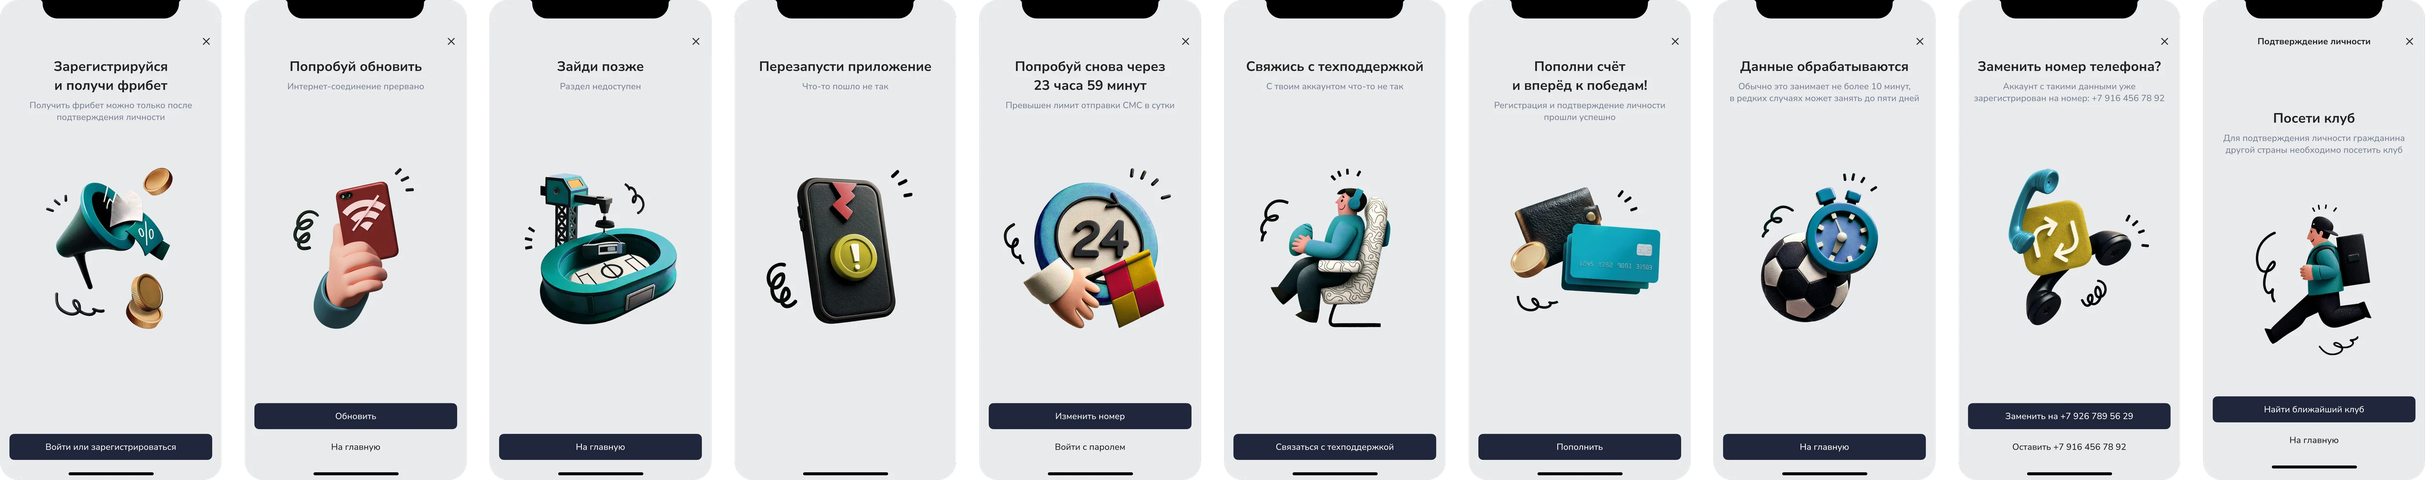
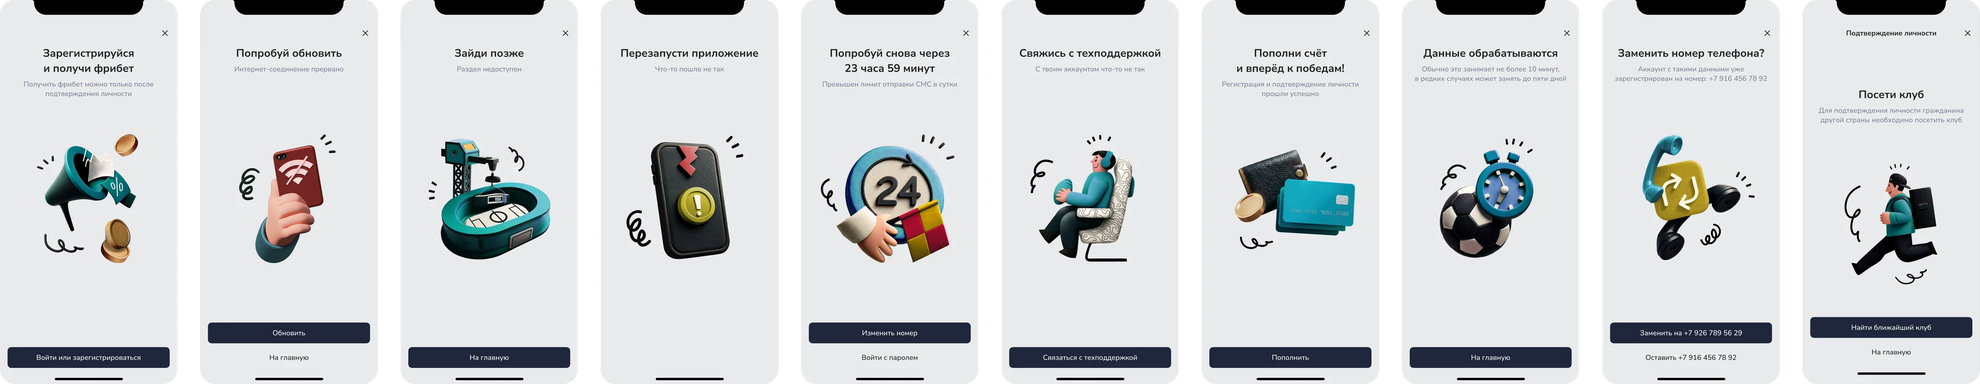
Кейс виден с первого кадра при перезагрузке; модалки −20%, карта сценариев +30%; «я справился»
Claude-Session: https://claude.ai/code/session_0119GZRZJ2E6EHHBXrJoVv6L

diff --git a/src/styles/tokens.css b/src/styles/tokens.css
@@ -104,7 +104,7 @@
   --case-figure-box-h: 400px; /* листаемая рамка картинки (Figure box) — карта сценариев */
   --case-side-figure-overhang: 4px; /* картинка рядом с текстом (Figure side): на сколько уходит за правый край панели */
   --case-screen-w: 84%; /* экран в ряду макетов (Screens) — доля своей трети */
-  --case-strip-h: round(clamp(316px, 33.75vw, 502px), 2px); /* лента экранов (Figure scroll) */
+  --case-strip-h: round(clamp(252px, 27vw, 402px), 2px); /* лента экранов (Figure scroll) */
   --case-strip-intro-w: 420px; /* ширина заголовка в начале ленты */
   --case-strip-intro-gap: 48px; /* заголовок → первый экран ленты */
   --case-strip-intro-lead-gap: 12px; /* заголовок → подзаголовок в ленте */

diff --git a/design/cases/betting/scenarios-edit.py b/design/cases/betting/scenarios-edit.py
@@ -1,9 +1,10 @@
-"""Правки карты сценариев перед экспортом в WebP (координаты — в итоговом размере 9876 × 4878).
+"""Правки карты сценариев перед экспортом в WebP (координаты заданы для размера 9876 × 4878 и
+масштабируются под размер входной картинки — ширина / 9876).
 
 1. Убраны два экрана «Превышен лимит входа» внизу слева (по просьбе пользователя).
 2. Размыты логотипы и название ZENIT: заставка, промо-экран, шапки главной, экраны службы поддержки.
 
-Запуск: python scenarios-edit.py <вход.png 9876×4878> <выход.png>
+Запуск: python scenarios-edit.py <вход.png> <выход.png>
 """
 import sys
 
@@ -28,8 +29,10 @@ BLUR = [
     (9178, 1770, 9259, 1786),  # VK: пост
 ]
 
-for box in ERASE:
+k = im.width / 9876
+scale = lambda box: tuple(round(v * k) for v in box)
+for box in map(scale, ERASE):
     im.paste((0, 0, 0, 0), box)
-for box in BLUR:
-    im.paste(im.crop(box).filter(ImageFilter.GaussianBlur(5)), box[:2])
+for box in map(scale, BLUR):
+    im.paste(im.crop(box).filter(ImageFilter.GaussianBlur(5 * k)), box[:2])
 im.save(sys.argv[2])

diff --git a/design/cases/betting/modals-build.py b/design/cases/betting/modals-build.py
@@ -2,7 +2,7 @@
 
 Экраны находятся по прозрачности (столбцы без пикселей — промежутки), режутся по одному и собираются
 заново с зазором GAP (в итоговых px, 2x): между экранами на сайте — GAP / 2 = 24px.
-Высота — 2x от высоты ленты (--case-strip-h 502px на 1728).
+Высота — 2x от высоты ленты (--case-strip-h 402px на 1728).
 
 Запуск: python modals-build.py modals.pdf modals.png  →  затем WebP (sharp).
 """
@@ -11,7 +11,7 @@ import sys
 import pymupdf
 from PIL import Image
 
-H, GAP = 1004, 48
+H, GAP = 804, 48
 page = pymupdf.open(sys.argv[1])[0]
 
 # Где экраны: столбцы страницы (1 px = 1 pt), где есть непрозрачные пиксели.

diff --git a/CLAUDE.md b/CLAUDE.md
@@ -169,8 +169,8 @@ pnpm deploy:yandex
 - `src/i18n/` — строки интерфейса (`ui.ts`), хелперы ссылок, выборка кейсов по локали
 - `src/content/{ru,en}/cases/*.mdx` — кейсы. Типографика в MDX — hast-плагин Sätteri `src/i18n/rehype-typograph.ts` (в `astro.config.mjs`, см. «Типографика»)
 - **Страница кейса** `src/pages/[lang]/cases/[slug].astro`: шапка кейса (годы `period` — кеглем текста кейса `--text-case-body`, заголовок, теги `tags` — цветные плашки по порядку `--case-tag-1` (зелёный #2fa802), `--case-tag-2` (малиновый #ad0063), скругление `--case-tag-radius` 8px, кегль и начертание как у текста кейса; чипсы навыков `Chips` — прозрачные с обводкой `--case-chip-border`, поля по бокам `--case-chip-pad-x` 12px; заголовок кейса — вес 600; отступ годы → заголовок — `--case-hero-gap` 12px, заголовок → теги — вдвое больше, 24px, между тегами — 16px (удвоенный `--chip-gap`), теги → текст (и теги → обложка на узком) — `--case-lead-gap` 32px; **красная строка** у абзацев текста кейса — `--case-indent` `round(0.75em, 2px)` (12px), кроме подзаголовков капсом, подписей и чисел; между абзацами — пустая строка (1em), списки и пункты списков — без промежутков; пункты списков с заглавной буквы и без знаков в конце (без «;» и «.»); маркер списка — под первой буквой абзаца (на красной строке, свой `::before`), текст пункта — через `--case-bullet-gap` 20px; `TextColumns` — жёлтым `--case-accent`, вводная строка + `<Columns>` с двумя списками (у Betting слева 2 пункта, справа 1), пункты колонок на одном уровне; до чипсов навыков — `--case-chips-gap` 24px, между чипсами — 16px со всех сторон, как между тегами; начало абзаца отмечает красная строка; `**выделение**` в тексте кейса выглядит как обычный текст — без белого цвета и жирности), тема `theme: dark` (тёмно-синий фон `--case-bg`, акцент `--case-accent` #fcd537). **Шапка кейса с обложкой** (`cover`): на широком контейнере (≥800px) обложка справа (`float`, 40%), по вертикали — посередине между верхом годов и текстом под ней (`centerCover` в CaseDrawer: отступы сверху и снизу равны, текст обтекает с самой картинки — `shape-outside: inset(отступ 0 0 0)`; блок под обложкой — `TextColumns` с `clear`; если текст рядом короче обложки — обложка вровень с годами); рядом — годы, заголовок, теги и первый текст кейса (в MDX — обычный текст сразу после импортов), ниже обложки текст во всю ширину; следующий блок `<TextColumns>` (clear) — текст, перетекающий в 2 колонки; на узком (и в модалке) — всё в колонку, обложка под тегами. Подписи к картинкам и схемам (`Figure`, `OldFlow`, `Screens`) — кеглем текста кейса `--text-case-body`, белым `--case-text`, вес 500, обычным регистром (стили поменяны местами с «До / После»); от подписи до картинки — `--case-caption-gap` 24px. Компоненты для MDX — `src/components/case/`: `Flow` (текст перетекает из левой колонки в правую, CSS `columns: 2` от 800px контейнера, абзац может переноситься в следующую колонку, между абзацами без пустой строки — только красная строка; **сплошной текст в две колонки — всегда `Flow`, не `Columns`**: колонки равны по числу строк, текст не делится по смыслу на левую/правую; у Betting — «До», «После», итоги и выводы по статистике; `Columns` остаётся для текста рядом с картинкой, а `TextColumns` — для списка задач с заданной раскладкой), `Screens` (экраны приложения в ряд: на широком — по центру своей трети, ширина `--case-screen-w` 84%; на узком — лента 240px с прокруткой; картинки `<имя>-{616,924}.webp`, 2x/3x от 308px), `Columns` (две колонки от 800px контейнера), `TextColumns` (вводная строка с отступом абзаца (1em) от текста выше и внутри `<Columns>` — колонки со своими списками; раскладку задаёт MDX, без JS), `Figure` (подпись-лейбл над картинкой; `scroll` — горизонтальная лента, `bleed` — в край, `side` — рядом с текстом в `Columns`: от левого края колонки до края панели + 4px, текст по середине; `box="w / h"` + `zoom` — рамка заданной пропорции, картинка в `zoom` раз выше рамки, лишнее листается внутри рамки), `Metrics` (жёлтые столбики, числа по локали), `Chips`. Токены — `--case-*` в `tokens.css`. Картинки — `public/images/cases/<кейс>/*.webp`, исходники — `design/cases/<кейс>/`.
-- **Кейсы открываются в модалке поверх главной** (`src/components/CaseDrawer.astro`, подключён в `[lang]/index.astro`; образец — avec anni): панель справа (`--case-panel-w`: 70vw/мин. 860px на десктопе — 70/30 с главной, 80vw на планшете, во весь экран на мобиле; поля внутри `--case-panel-gutter` 80/48/20px — и слева/справа, и сверху до контента: `--case-pad-top` = полю; вариант «годы по центру крестика» пользователь отклонил), главная затемнена (`--case-panel-backdrop`) и стоит на месте, панель выезжает плавно (`--case-panel-duration` 0.7s, `--case-panel-ease` — мягкое торможение до конца; стартует только после раскладки кейса и готовой обложки; причины рывков, которые убраны: фокус на элементе панели за краем экрана прокручивал диалог вбок (теперь фокус на самом диалоге, `overflow: clip`, фокус на содержимое — после выезда с `preventScroll`), и `lenis-stopped` ставил `overflow: clip` на `<html>` — пропадала полоса прокрутки и страница перекладывалась (при открытом кейсе `html.case-open` держит `overflow: visible`, прокрутку страницы гасит сам Lenis); у обложки кейса `width/height` из заголовка WebP), прокрутка внутри панели (`data-lenis-prevent`, Lenis на время остановлен; `overscroll-behavior: none` — панель не оттягивается «резинкой» ни сверху, ни вбок). Закрыть: крестик в квадрате со скруглением вверху справа (`--case-close-size` 40px, `--case-close-radius` 10px, полупрозрачный белый; фокус при открытии — на содержимое, не на кнопку — жёлтой рамки нет), клик по затемнению (подсказки у курсора нет — убрана по просьбе), после закрытия мышью фокус с плитки снимается (без рамки), Esc, «Назад». Ссылки с `data-case-link` (плитка Betting) перехватываются в фазе захвата раньше ClientRouter; содержимое берётся со страницы кейса (`article.case` + её `<style>`), кейсы подгружаются заранее. Адрес меняется на адрес кейса (`pushState` с `caseDrawer`); «Назад/Вперёд» ловит слушатель `popstate` во встроенном скрипте `<head>` (BaseLayout → `window.__casePopstate`) — он обязан стоять раньше ClientRouter, иначе тот перезагружает главную. **Прямой заход и перезагрузка по адресу кейса — та же главная, а кейс поверх неё в уже открытой модалке** (как после клика, без выезда: `CaseDrawer open` + слот; страница `[slug].astro` = `HomeContent` + `CaseDrawer` с `CaseArticle`); закрыть — адрес меняется на главную (`replaceState`, состояние `caseDirect`), переключатель языка переводится на главную другого языка. Кейс — компонент `src/components/CaseArticle.astro`, главная — `src/components/HomeContent.astro` (Hero + Tiles + About). **Поля слева и справа одинаковые** — ничего не выходит в края (ни ленты, ни схемы, ни картинки); `bleed` у `Figure` — только если пользователь сам укажет блок. Между колонками в модалке (и от текста до обложки) — `--case-col-gap` 20px, колонки на всю ширину до полей (правый край — по крестику). Шрифты кейса в модалке мельче (заголовок кейса — 58px с интервалом 52px на MacBook Pro 16″ (1728px): `--text-display` `clamp(28px, 10px + 2.8vw, 58px)`, `--leading-display` 0.9; переопределены `--text-display`, `--text-tile-title`, `--text-case-body`, `--case-label-size`, `--case-metric-size`, `--text-chip` в `.case-drawer__scroll`); заголовок кейса не шире контейнера (`min(--text-display, 11cqi)`). Раскладка кейса — по ширине контейнера (`container: case`, `@container case (min-width: 800px)`), а не экрана.
-- **Кейс Betting** (`betting.mdx`, собран из Figma-артборда `1792:131065`): плитка Betting на главной ведёт на него (`TILE_CASES` в `Tiles.astro`, ссылка в заголовке растянута на плитку). Figma MCP: картинки — через `get_screenshot` (base64), т.к. `figma.com` сетью закрыт; рендеры 1x. **Схема старой регистрации — кодом** (`src/components/case/betting/OldFlow.astro`): SVG с геометрией из макета (исходник `design/cases/betting/old-flow.svg`, 1320 × 849; линии — контуры из макета), тексты — наш шрифт Onest, по локали (RU/EN), подписи поверх линий «вырезают» линию обводкой цветом фона (из-за обводки текст схемы не выделяется — `user-select: none`); цвета — токены `--case-flow-*`; уже `--case-flow-min-w` (960px) листается по горизонтали. **Обложка кейса — слайдер экранов** (`slides` во frontmatter вместо `cover`: экраны слева направо, первым показан средний; `src/components/case/CoverSlider.astro` + `src/scripts/cover-slider.ts`, подключает CaseDrawer): на широком обложка шириной с правую колонку `<Columns>` (`(100% − --case-col-gap) / 2`), текст рядом — шириной с левую; слайдер — от маркера списков правой колонки (отступ `--case-indent`) до правого края (края крестика), текущий экран — 56% ширины слайдера (`--case-slide-w`), соседи — 82% размера, внешний край — по краю обложки; соседи приглушены **яркостью** `filter: brightness(--case-slide-side-bright 0.55)`, а не прозрачностью и не слоем с маской (прозрачность — экраны просвечивали друг сквозь друга; слой с `mask` мигал тёмным прямоугольником, пока маска не загружена); слайды — `will-change: transform` (без мигания при создании слоёв; экран, переезжающий с края на край, — позади всех, `data-wrap`); стрелок нет — экраны кликабельны (сосед слева — назад, текущий и правый — вперёд); наведение — только на соседей: поворот ∓1.5° и светлеют (текущий не реагирует); автопрокрутка каждые 4с (стоит под курсором, при фокусе с клавиатуры, на скрытой вкладке и при reduced motion); переход 0.9с (`--case-slide-ease` — быстрый старт, мягкое торможение); **кто впереди — меняется посередине перехода** (`z-index` с задержкой D/2), когда экраны поравнялись по размеру и яркости; смена в первый кадр давала «моргание» — тёмный сосед мгновенно перекрывал светлый центр; токены `--case-slide-*`. Экраны Betting: слева «003.0 Система», центр «001.0-A Верификация…», справа «001.0-A Default» (исходники — SVG в `design/cases/betting/cover/`, рендер в Chromium → WebP 2x/3x: `public/images/cases/betting/cover-*-{750,1125}.webp`, `srcset`; PNG 1x были мыльными; при рендере экран обрезается скруглением 32px — в SVG из Figma без обтравки фрейма углы выходили квадратными; у «Верификации» подложка клавиатуры дотянута до низа — в исходнике снизу была светлая полоска 4px). В плитке Betting на главной — `betting-tile-{600,1200}.webp` (`TILE_IMAGES`): те же три экрана, что в обложке (центр «Верификация», слева «Система», справа «Default»), собраны в композицию 1200 × 1632 как у «Метра квадратного», но мельче (центральный экран 560px = 47% ширины против 62%), боковые — 82% размера, выглядывают на 230px из-за центрального (вариант «боковые по полям плитки» пользователь отменил), без затемнения, прозрачный фон; собрано sharp из `cover-*-1125.webp`. **Селектор сценариев** (`src/components/case/CaseTabs.astro`, под чипсами навыков): вкладки Процессы / Регистрация / Пополнение / Корзина (RU/EN), выбрана «Регистрация» — в слоте весь рассказ о регистрации до конца кейса; у остальных — заглушка «Кейс в разработке» (`case.soon`) с картинкой-экраном, блоки которого мерцают жёлтым; переключение без JS (радиокнопки + `:has`), выбранная — жёлтая заливка, на узком контейнере 2 × 2; заголовок сценария по центру (вес 600); остальные заголовки разделов в сценарии («Подробнее о процессе» и дальше) — так же вес 600, кегль 32px на 1728, сверху 80px (`--case-tabs-section-gap`) вместо `--case-section-gap`; метки «До / После» — по центру, жёлтые `--case-accent`, капсом, `--tracking-label`, вес 400, кеглем текста (варианты «заголовки как в hero» и «До/После кеглем заголовка» пользователь отменил); абзацы внутри сценария — без пустой строки между ними (в шапке кейса пустая строка осталась); отступы: чипсы → селектор — `--case-tabs-section-gap` 80px, селектор → заголовок — `--case-tabs-gap` 48px, заголовок → «До» — `--case-tabs-title-gap` 24px, экраны → «После» — 32px (нижний отступ блока над меткой обнуляется, `:has(+ h3)`), «До/После» → текст в две колонки — `--case-tabs-label-gap` 32px, между блоками сценария (колонки, схемы, картинки, метрики) — `--case-tabs-block-gap` 32px (переопределяет `--case-block-gap` в панели) (на всех экранах); токены `--case-tabs-*`. Чипсы навыков — шрифт как у тегов (`--text-case-body`); список: легаси, стейкхолдеры, продуктовые сессии, аналитика, Наставничество / Mentoring (CJM и «Продуктовое мышление» убраны). **Mind map новой регистрации** — картинка из SVG пользователя (`design/cases/betting/new-flow.svg`, 1320 × 475; надпись «Регистрация и идентификация в один шаг» поднята на 4px; синий путь (надпись, линии, точки, стрелка) перекрашен в жёлтый `--case-accent` #FCD537 — в исходнике `#0D69EB` → `#FCD537` — `<g transform="translate(0 -4)">` в исходнике → `public/images/cases/betting/new-flow.webp` 2x, 2640 × 950, рендер в Chromium, прозрачный фон). **Макеты новой регистрации** — `Screens` из SVG пользователя (`design/cases/betting/new-screens/{001.0-A,002.0,001.0-0}.svg`, 375 × 812 → `public/images/cases/betting/new-{phone,code,identification}-{616,924}.webp`, скругление 32px; у 001.0-A подложка клавиатуры дотянута до низа, как у обложки). «Звучит просто…» и «Подробнее о процессе» объединены в один сокращённый текст под заголовком «Подробнее о процессе» (рядом схема процесса): командная работа — «мы», личная — «я»; схема процесса рядом — `process.webp` из PNG пользователя (`design/cases/betting/process.png`, 1536 × 1514, 2x, прозрачный фон), `Figure side`: слева — по левому краю правой колонки, справа уходит за край панели на `--case-side-figure-overhang` 4px (обрезка по краю панели), по высоте ряд задаёт текст (отступ заголовок «Подробнее о процессе» → текст — `--case-tabs-heading-text-gap` 24px), картинка — по середине текста (`position: absolute`, `top: 50%`, `translate: 0 -50%`), выступает выше и ниже текста; если выступает ниже текста — `fitSideFigures` в CaseDrawer добавляет блоку колонок `padding-bottom` на выступ, и отступ 80px до следующего заголовка считается от низа картинки, а не от текста; на узком — обычная картинка. **Карта сценариев** («Изучив все нюансы…») — из PNG пользователя `Group 1720.png` (32768 × 16184, 12 МБ; `design/cases/betting/scenarios.png`, sharp с `limitInputPixels: false`) → `scenarios.webp` 9876 × 4878 (2x); перед экспортом — `design/cases/betting/scenarios-edit.py` (в итоговом размере): убраны два экрана «Превышен лимит входа» внизу слева, **логотипы и название ZENIT размыты** (заставка, промо-экран и его футер, шапки главной, экраны службы поддержки — Telegram, WhatsApp, VK; шапки найдены поиском по шаблону, OpenCV); листаемая рамка высотой `--case-figure-box-h` 400px (`Figure box="3200 / 2443" zoom={3.04}` — высота картинки = ширина текста × 2443/3200 × 3.04, 2436px на 1728; дважды увеличено на 30%: 1.8 → 2.34 → 3.04), рамка — в пределах полей панели (за правый край не уходит; вариант «до края панели» пользователь отменил), картинка внутри листается свободно вбок и вниз; при открытии кейса рамка сразу прокручена к середине по высоте (`centerBoxes` в CaseDrawer); прежний вариант из PDF — `design/cases/betting/scenarios.pdf`; **PDF — запасной путь, когда SVG больше 25 МБ** (лимит загрузки через сайт GitHub). **Модальные окна** («Проработали много модальных окон») — лента `Figure scroll` из PDF пользователя `Frame 1000003411.pdf` (`design/cases/betting/modals.pdf`, 4326 × 812 pt, 10 светлых экранов, «Страница не найдена» убрана; рендер PyMuPDF с прозрачностью) → `modals.webp` 5072 × 1004 (2x; собирается `design/cases/betting/modals-build.py`: экраны находятся по прозрачности, режутся по одному и ставятся с зазором 24px на сайте); высота ленты `--case-strip-h` `clamp(316px, 33.75vw, 502px)` (502px на 1728). Заголовок «Проработали много модальных окон» — обычный `##` как у остальных разделов, под ним подпись «… На все случаи жизни, так сказать» (обычная `h2 + p`, капсом); лента — под ними (варианты «заголовок/подпись внутри ленты слева» пользователь заменил; в `Figure` остались пропсы `title`/`lead` для текста внутри ленты). **Заголовки разделов сценария и подписи под ними — по центру** (`text-align: center` в CaseTabs; кроме «Подробнее о процессе» — над текстом с картинкой рядом, `h2:not(:has(+ .case-columns))`; у подписи красная строка снята). **Полосы прокрутки во всём кейсе** (панель, ленты экранов, схемы, карта сценариев) — одна тёмная, без светлой дорожки: `scrollbar-color: --case-scrollbar-thumb transparent` на `.case-drawer__scroll` и всём внутри (CaseDrawer); системная на macOS при наведении раскрывалась в серую со светлой подложкой. **Макеты старой регистрации** — `Screens` из SVG пользователя (`design/cases/betting/old-screens/003.3*.svg` → `public/images/cases/betting/old-{registration,confirm,identification}-{616,924}.webp`, рендер в Chromium, скругление 23px). Пропущено из артборда: QR-баннер, форма, футер, чипсы «???», переключатель старое/новое. Опечатки исходника исправлены.
+- **Кейсы открываются в модалке поверх главной** (`src/components/CaseDrawer.astro`, подключён в `[lang]/index.astro`; образец — avec anni): панель справа (`--case-panel-w`: 70vw/мин. 860px на десктопе — 70/30 с главной, 80vw на планшете, во весь экран на мобиле; поля внутри `--case-panel-gutter` 80/48/20px — и слева/справа, и сверху до контента: `--case-pad-top` = полю; вариант «годы по центру крестика» пользователь отклонил), главная затемнена (`--case-panel-backdrop`) и стоит на месте, панель выезжает плавно (`--case-panel-duration` 0.7s, `--case-panel-ease` — мягкое торможение до конца; стартует только после раскладки кейса и готовой обложки; причины рывков, которые убраны: фокус на элементе панели за краем экрана прокручивал диалог вбок (теперь фокус на самом диалоге, `overflow: clip`, фокус на содержимое — после выезда с `preventScroll`), и `lenis-stopped` ставил `overflow: clip` на `<html>` — пропадала полоса прокрутки и страница перекладывалась (при открытом кейсе `html.case-open` держит `overflow: visible`, прокрутку страницы гасит сам Lenis); у обложки кейса `width/height` из заголовка WebP), прокрутка внутри панели (`data-lenis-prevent`, Lenis на время остановлен; `overscroll-behavior: none` — панель не оттягивается «резинкой» ни сверху, ни вбок). Закрыть: крестик в квадрате со скруглением вверху справа (`--case-close-size` 40px, `--case-close-radius` 10px, полупрозрачный белый; фокус при открытии — на содержимое, не на кнопку — жёлтой рамки нет), клик по затемнению (подсказки у курсора нет — убрана по просьбе), после закрытия мышью фокус с плитки снимается (без рамки), Esc, «Назад». Ссылки с `data-case-link` (плитка Betting) перехватываются в фазе захвата раньше ClientRouter; содержимое берётся со страницы кейса (`article.case` + её `<style>`), кейсы подгружаются заранее. Адрес меняется на адрес кейса (`pushState` с `caseDrawer`); «Назад/Вперёд» ловит слушатель `popstate` во встроенном скрипте `<head>` (BaseLayout → `window.__casePopstate`) — он обязан стоять раньше ClientRouter, иначе тот перезагружает главную. **Прямой заход и перезагрузка по адресу кейса — та же главная, а кейс поверх неё в уже открытой модалке** (как после клика, без выезда: `CaseDrawer open` + слот; диалог открыт уже в HTML — атрибут `open` и классы `is-open is-instant`, `z-index` поверх всего, — поэтому с первого кадра виден кейс, а не главная; скрипт затем переоткрывает его модально (`close()` + `showModal()` в одном кадре); обложка до скрипта скрыта — её ставит по высоте `centerCover`; страница `[slug].astro` = `HomeContent` + `CaseDrawer` с `CaseArticle`); закрыть — адрес меняется на главную (`replaceState`, состояние `caseDirect`), переключатель языка переводится на главную другого языка. Кейс — компонент `src/components/CaseArticle.astro`, главная — `src/components/HomeContent.astro` (Hero + Tiles + About). **Поля слева и справа одинаковые** — ничего не выходит в края (ни ленты, ни схемы, ни картинки); `bleed` у `Figure` — только если пользователь сам укажет блок. Между колонками в модалке (и от текста до обложки) — `--case-col-gap` 20px, колонки на всю ширину до полей (правый край — по крестику). Шрифты кейса в модалке мельче (заголовок кейса — 58px с интервалом 52px на MacBook Pro 16″ (1728px): `--text-display` `clamp(28px, 10px + 2.8vw, 58px)`, `--leading-display` 0.9; переопределены `--text-display`, `--text-tile-title`, `--text-case-body`, `--case-label-size`, `--case-metric-size`, `--text-chip` в `.case-drawer__scroll`); заголовок кейса не шире контейнера (`min(--text-display, 11cqi)`). Раскладка кейса — по ширине контейнера (`container: case`, `@container case (min-width: 800px)`), а не экрана.
+- **Кейс Betting** (`betting.mdx`, собран из Figma-артборда `1792:131065`): плитка Betting на главной ведёт на него (`TILE_CASES` в `Tiles.astro`, ссылка в заголовке растянута на плитку). Figma MCP: картинки — через `get_screenshot` (base64), т.к. `figma.com` сетью закрыт; рендеры 1x. **Схема старой регистрации — кодом** (`src/components/case/betting/OldFlow.astro`): SVG с геометрией из макета (исходник `design/cases/betting/old-flow.svg`, 1320 × 849; линии — контуры из макета), тексты — наш шрифт Onest, по локали (RU/EN), подписи поверх линий «вырезают» линию обводкой цветом фона (из-за обводки текст схемы не выделяется — `user-select: none`); цвета — токены `--case-flow-*`; уже `--case-flow-min-w` (960px) листается по горизонтали. **Обложка кейса — слайдер экранов** (`slides` во frontmatter вместо `cover`: экраны слева направо, первым показан средний; `src/components/case/CoverSlider.astro` + `src/scripts/cover-slider.ts`, подключает CaseDrawer): на широком обложка шириной с правую колонку `<Columns>` (`(100% − --case-col-gap) / 2`), текст рядом — шириной с левую; слайдер — от маркера списков правой колонки (отступ `--case-indent`) до правого края (края крестика), текущий экран — 56% ширины слайдера (`--case-slide-w`), соседи — 82% размера, внешний край — по краю обложки; соседи приглушены **яркостью** `filter: brightness(--case-slide-side-bright 0.55)`, а не прозрачностью и не слоем с маской (прозрачность — экраны просвечивали друг сквозь друга; слой с `mask` мигал тёмным прямоугольником, пока маска не загружена); слайды — `will-change: transform` (без мигания при создании слоёв; экран, переезжающий с края на край, — позади всех, `data-wrap`); стрелок нет — экраны кликабельны (сосед слева — назад, текущий и правый — вперёд); наведение — только на соседей: поворот ∓1.5° и светлеют (текущий не реагирует); автопрокрутка каждые 4с (стоит под курсором, при фокусе с клавиатуры, на скрытой вкладке и при reduced motion); переход 0.9с (`--case-slide-ease` — быстрый старт, мягкое торможение); **кто впереди — меняется посередине перехода** (`z-index` с задержкой D/2), когда экраны поравнялись по размеру и яркости; смена в первый кадр давала «моргание» — тёмный сосед мгновенно перекрывал светлый центр; токены `--case-slide-*`. Экраны Betting: слева «003.0 Система», центр «001.0-A Верификация…», справа «001.0-A Default» (исходники — SVG в `design/cases/betting/cover/`, рендер в Chromium → WebP 2x/3x: `public/images/cases/betting/cover-*-{750,1125}.webp`, `srcset`; PNG 1x были мыльными; при рендере экран обрезается скруглением 32px — в SVG из Figma без обтравки фрейма углы выходили квадратными; у «Верификации» подложка клавиатуры дотянута до низа — в исходнике снизу была светлая полоска 4px). В плитке Betting на главной — `betting-tile-{600,1200}.webp` (`TILE_IMAGES`): те же три экрана, что в обложке (центр «Верификация», слева «Система», справа «Default»), собраны в композицию 1200 × 1632 как у «Метра квадратного», но мельче (центральный экран 560px = 47% ширины против 62%), боковые — 82% размера, выглядывают на 230px из-за центрального (вариант «боковые по полям плитки» пользователь отменил), без затемнения, прозрачный фон; собрано sharp из `cover-*-1125.webp`. **Селектор сценариев** (`src/components/case/CaseTabs.astro`, под чипсами навыков): вкладки Процессы / Регистрация / Пополнение / Корзина (RU/EN), выбрана «Регистрация» — в слоте весь рассказ о регистрации до конца кейса; у остальных — заглушка «Кейс в разработке» (`case.soon`) с картинкой-экраном, блоки которого мерцают жёлтым; переключение без JS (радиокнопки + `:has`), выбранная — жёлтая заливка, на узком контейнере 2 × 2; заголовок сценария по центру (вес 600); остальные заголовки разделов в сценарии («Подробнее о процессе» и дальше) — так же вес 600, кегль 32px на 1728, сверху 80px (`--case-tabs-section-gap`) вместо `--case-section-gap`; метки «До / После» — по центру, жёлтые `--case-accent`, капсом, `--tracking-label`, вес 400, кеглем текста (варианты «заголовки как в hero» и «До/После кеглем заголовка» пользователь отменил); абзацы внутри сценария — без пустой строки между ними (в шапке кейса пустая строка осталась); отступы: чипсы → селектор — `--case-tabs-section-gap` 80px, селектор → заголовок — `--case-tabs-gap` 48px, заголовок → «До» — `--case-tabs-title-gap` 24px, экраны → «После» — 32px (нижний отступ блока над меткой обнуляется, `:has(+ h3)`), «До/После» → текст в две колонки — `--case-tabs-label-gap` 32px, между блоками сценария (колонки, схемы, картинки, метрики) — `--case-tabs-block-gap` 32px (переопределяет `--case-block-gap` в панели) (на всех экранах); токены `--case-tabs-*`. Чипсы навыков — шрифт как у тегов (`--text-case-body`); список: легаси, стейкхолдеры, продуктовые сессии, аналитика, Наставничество / Mentoring (CJM и «Продуктовое мышление» убраны). **Mind map новой регистрации** — картинка из SVG пользователя (`design/cases/betting/new-flow.svg`, 1320 × 475; надпись «Регистрация и идентификация в один шаг» поднята на 4px; синий путь (надпись, линии, точки, стрелка) перекрашен в жёлтый `--case-accent` #FCD537 — в исходнике `#0D69EB` → `#FCD537` — `<g transform="translate(0 -4)">` в исходнике → `public/images/cases/betting/new-flow.webp` 2x, 2640 × 950, рендер в Chromium, прозрачный фон). **Макеты новой регистрации** — `Screens` из SVG пользователя (`design/cases/betting/new-screens/{001.0-A,002.0,001.0-0}.svg`, 375 × 812 → `public/images/cases/betting/new-{phone,code,identification}-{616,924}.webp`, скругление 32px; у 001.0-A подложка клавиатуры дотянута до низа, как у обложки). «Звучит просто…» и «Подробнее о процессе» объединены в один сокращённый текст под заголовком «Подробнее о процессе» (рядом схема процесса): командная работа — «мы», личная — «я»; схема процесса рядом — `process.webp` из PNG пользователя (`design/cases/betting/process.png`, 1536 × 1514, 2x, прозрачный фон), `Figure side`: слева — по левому краю правой колонки, справа уходит за край панели на `--case-side-figure-overhang` 4px (обрезка по краю панели), по высоте ряд задаёт текст (отступ заголовок «Подробнее о процессе» → текст — `--case-tabs-heading-text-gap` 24px), картинка — по середине текста (`position: absolute`, `top: 50%`, `translate: 0 -50%`), выступает выше и ниже текста; если выступает ниже текста — `fitSideFigures` в CaseDrawer добавляет блоку колонок `padding-bottom` на выступ, и отступ 80px до следующего заголовка считается от низа картинки, а не от текста; на узком — обычная картинка. **Карта сценариев** («Изучив все нюансы…») — из PNG пользователя `Group 1720.png` (32768 × 16184, 12 МБ; `design/cases/betting/scenarios.png`, sharp с `limitInputPixels: false`) → `scenarios.webp` 12838 × 6342 (2x); перед экспортом — `design/cases/betting/scenarios-edit.py` (координаты для 9876 × 4878, масштабируются под размер): убраны два экрана «Превышен лимит входа» внизу слева, **логотипы и название ZENIT размыты** (заставка, промо-экран и его футер, шапки главной, экраны службы поддержки — Telegram, WhatsApp, VK; шапки найдены поиском по шаблону, OpenCV); листаемая рамка высотой `--case-figure-box-h` 400px (`Figure box="3200 / 2443" zoom={3.952}` — высота картинки = ширина текста × 2443/3200 × 3.952, 3168px на 1728; трижды увеличено на 30%: 1.8 → 2.34 → 3.04 → 3.952), рамка — в пределах полей панели (за правый край не уходит; вариант «до края панели» пользователь отменил), картинка внутри листается свободно вбок и вниз; при открытии кейса рамка сразу прокручена к середине по высоте (`centerBoxes` в CaseDrawer); прежний вариант из PDF — `design/cases/betting/scenarios.pdf`; **PDF — запасной путь, когда SVG больше 25 МБ** (лимит загрузки через сайт GitHub). **Модальные окна** («Проработали много модальных окон») — лента `Figure scroll` из PDF пользователя `Frame 1000003411.pdf` (`design/cases/betting/modals.pdf`, 4326 × 812 pt, 10 светлых экранов, «Страница не найдена» убрана; рендер PyMuPDF с прозрачностью) → `modals.webp` 4142 × 804 (2x; собирается `design/cases/betting/modals-build.py`: экраны находятся по прозрачности, режутся по одному и ставятся с зазором 24px на сайте); высота ленты `--case-strip-h` `clamp(252px, 27vw, 402px)` (402px на 1728: 668 → 334 → 502 → −20%). Заголовок «Проработали много модальных окон» — обычный `##` как у остальных разделов, под ним подпись «… На все случаи жизни, так сказать» (обычная `h2 + p`, капсом); лента — под ними (варианты «заголовок/подпись внутри ленты слева» пользователь заменил; в `Figure` остались пропсы `title`/`lead` для текста внутри ленты). **Заголовки разделов сценария и подписи под ними — по центру** (`text-align: center` в CaseTabs; кроме «Подробнее о процессе» — над текстом с картинкой рядом, `h2:not(:has(+ .case-columns))`; у подписи красная строка снята). **Полосы прокрутки во всём кейсе** (панель, ленты экранов, схемы, карта сценариев) — одна тёмная, без светлой дорожки: `scrollbar-color: --case-scrollbar-thumb transparent` на `.case-drawer__scroll` и всём внутри (CaseDrawer); системная на macOS при наведении раскрывалась в серую со светлой подложкой. **Макеты старой регистрации** — `Screens` из SVG пользователя (`design/cases/betting/old-screens/003.3*.svg` → `public/images/cases/betting/old-{registration,confirm,identification}-{616,924}.webp`, рендер в Chromium, скругление 23px). Пропущено из артборда: QR-баннер, форма, футер, чипсы «???», переключатель старое/новое. Опечатки исходника исправлены.
 - `src/scripts/motion.ts` — Lenis + GSAP; анимации страницы регистрируются через `onPage()`, чистятся сами при переходах
 - **Перезагрузка всегда открывает первый слайд**: встроенный скрипт в `<head>` (`BaseLayout.astro`) до отрисовки ставит `history.scrollRestoration = 'manual'` и сбрасывает прокрутку наверх на `beforeunload`/`pagehide` (Safari/Firefox запоминают позицию при уходе); в `motion.ts` — прокрутка наверх при старте и ещё раз на `load` (страница + Lenis). Смена языка (переход без перезагрузки) место сохраняет.
 - **Смена языка меняет только текст**: переключатель вызывает `keepViewOnNextSwap()` — прокрутка сохраняется, анимация перехода пропускается; фон hero с градиентом — `transition:persist`, градиент не перезапускается и продолжает анимацию; фильтр фона (монохром по скроллу) сохраняется через переход. **Смена языка мгновенная** (`LanguageSwitcher.astro`): страница на другом языке загружается в память сразу после открытия (`astro:page-load`), при клике берётся оттуда (`event.loader` в `astro:before-preparation`), а снимок View Transition пропускается одноразовой подменой `document.startViewTransition` (снимок с WebGL-фоном и давал паузу 0.2–0.8с); замер: текст меняется через ~40–60 мс после клика.
@@ -190,7 +190,7 @@ pnpm deploy:yandex
 - **Картинки — с меткой версии** `?v=<md5 содержимого>` (`asset()` из `src/utils/asset.ts`: плитки, обложка и картинки кейса): зеркало Яндекса кэширует картинки на сутки, без метки после замены файла показывалась старая версия (так «Метр квадратный» оставался полупрозрачным). Новые картинки — тоже через `asset()`.
 - `site` в `astro.config.mjs` — заглушка, заменить на реальный домен
 
-Задеплоено (2026-10-01, последний — заголовки разделов и подписи по центру, «Проработали…» над лентой; + зеркало Яндекс): https://vadimpianov.pages.dev — `/ru/`, `/en/` отдают 200, `/` редиректит (302) по cookie/стране.
+Задеплоено (2026-10-01, последний — кейс с первого кадра при перезагрузке, модалки −20%, карта +30%, «я справился»; + зеркало Яндекс): https://vadimpianov.pages.dev — `/ru/`, `/en/` отдают 200, `/` редиректит (302) по cookie/стране.
 
 ## Следующий шаг
 
